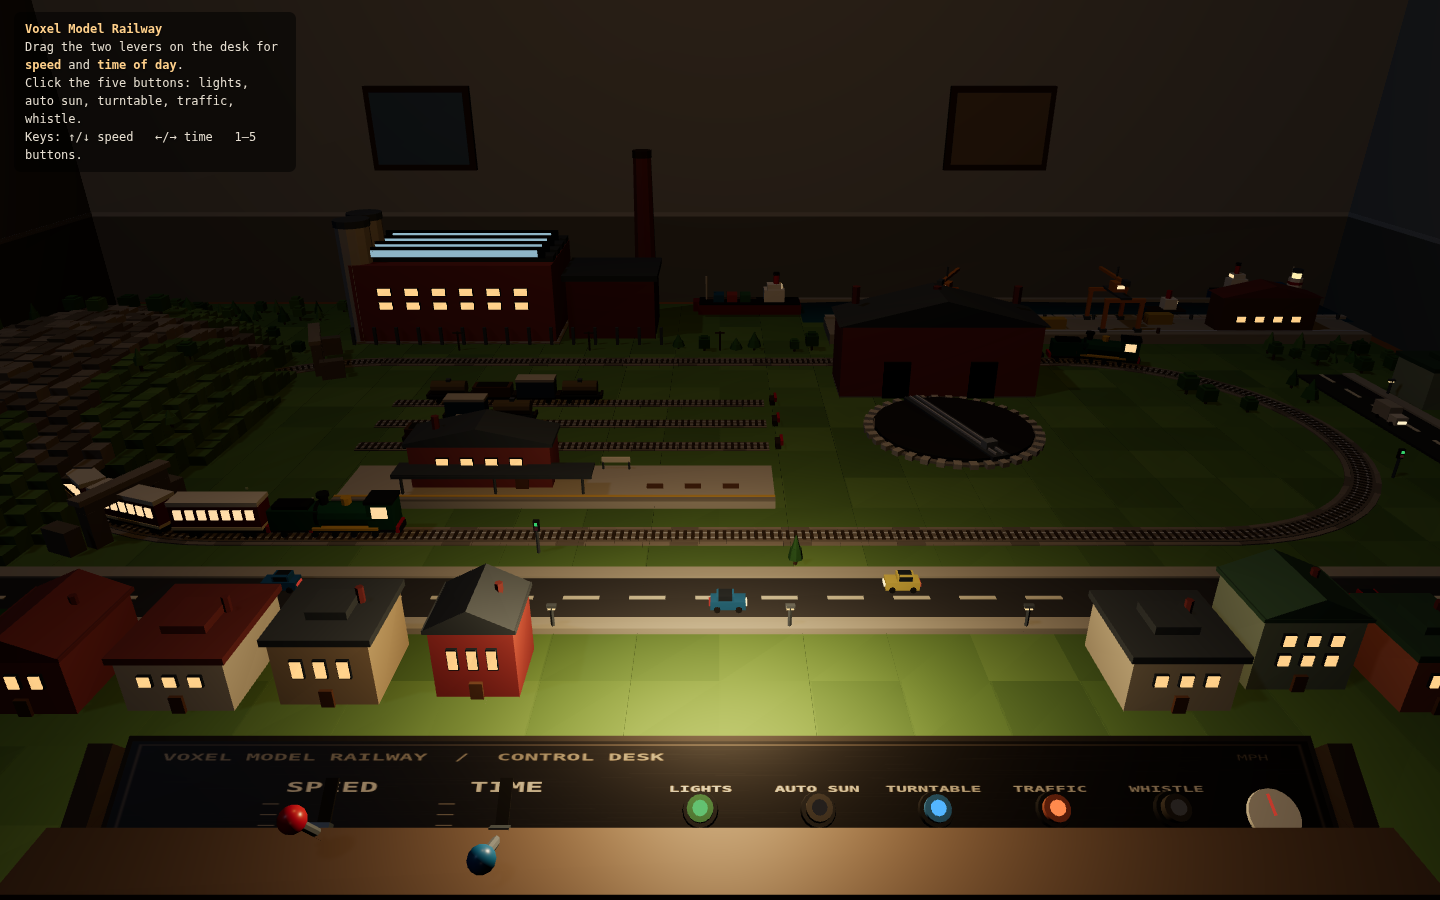
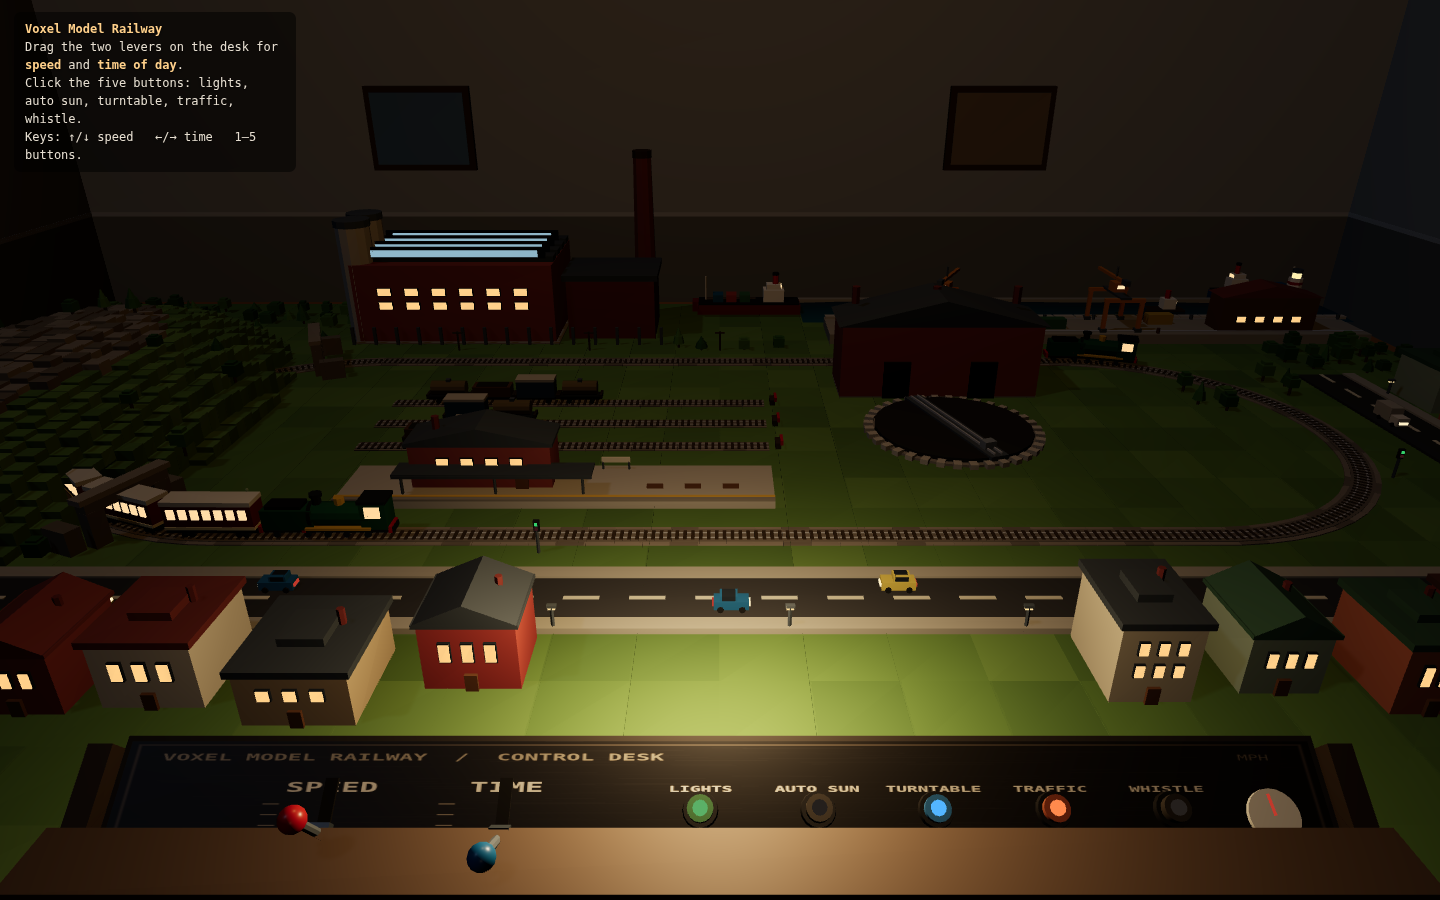
Light the room's window as daylight, not as a building window
The emissive pass is driven to near-black in daylight, which is right for
the layout's building windows and exactly wrong for a window onto the
sky, so the room's glazing moves to the solid mesh. Rock above the tunnel
bore also keeps the hillside's own colouring instead of reading as a
stone path cut across the summit.

Claude-Session: https://claude.ai/code/session_01WYeDXh1jYabUsqYZKgNMzc

diff --git a/src/scenery.js b/src/scenery.js
@@ -56,8 +56,12 @@ function hill(vb, track) {
       if (dTrack < BORE_R) {
         // carve the bore: keep only the rock above the loading gauge
         if (h <= BORE_H) continue;
+        // rock over the bore keeps the hillside's own colouring, so the tunnel
+        // does not read as a stone path cut across the summit
+        const cc = h > 0.185 ? (R() < 0.45 ? C.rock : C.rockDark)
+          : R() < 0.28 ? C.grassDark : R() < 0.55 ? C.grass : C.grassLight;
         vb.box(px, BORE_H + (h - BORE_H) / 2, pz, step * 1.05, h - BORE_H, step * 1.05,
-          R() < 0.3 ? C.rock : C.rockDark, { jitter: 0.12 });
+          cc, { jitter: 0.12 });
         continue;
       }
       const c = h > 0.185 ? (R() < 0.45 ? C.rock : C.rockDark)

diff --git a/src/room.js b/src/room.js
@@ -38,8 +38,11 @@ export function buildRoom(vb, lit) {
   // window on the left wall, with a frame and a warm sill
   const wy = FLOOR + 1.10, wz = -0.75;
   vb.box(-x - 0.01, wy, wz, 0.05, 1.02, 1.34, C.windowFrm);
+  // Daylight glazing: this belongs in the solid mesh, not the emissive one.
+  // The emissive pass is driven to near-black by day, which is right for the
+  // layout's building windows and exactly wrong for a window onto the sky.
   for (const oz of [-0.33, 0.33]) {
-    lit.box(-x + 0.02, wy, wz + oz, 0.012, 0.90, 0.56, 0xdfeeff, { jitter: 0.02 });
+    vb.box(-x + 0.02, wy, wz + oz, 0.012, 0.90, 0.56, 0xeaf4ff, { jitter: 0.02 });
   }
   vb.box(-x + 0.06, wy - 0.53, wz, 0.14, 0.04, 1.30, C.skirting);
   // mullions
